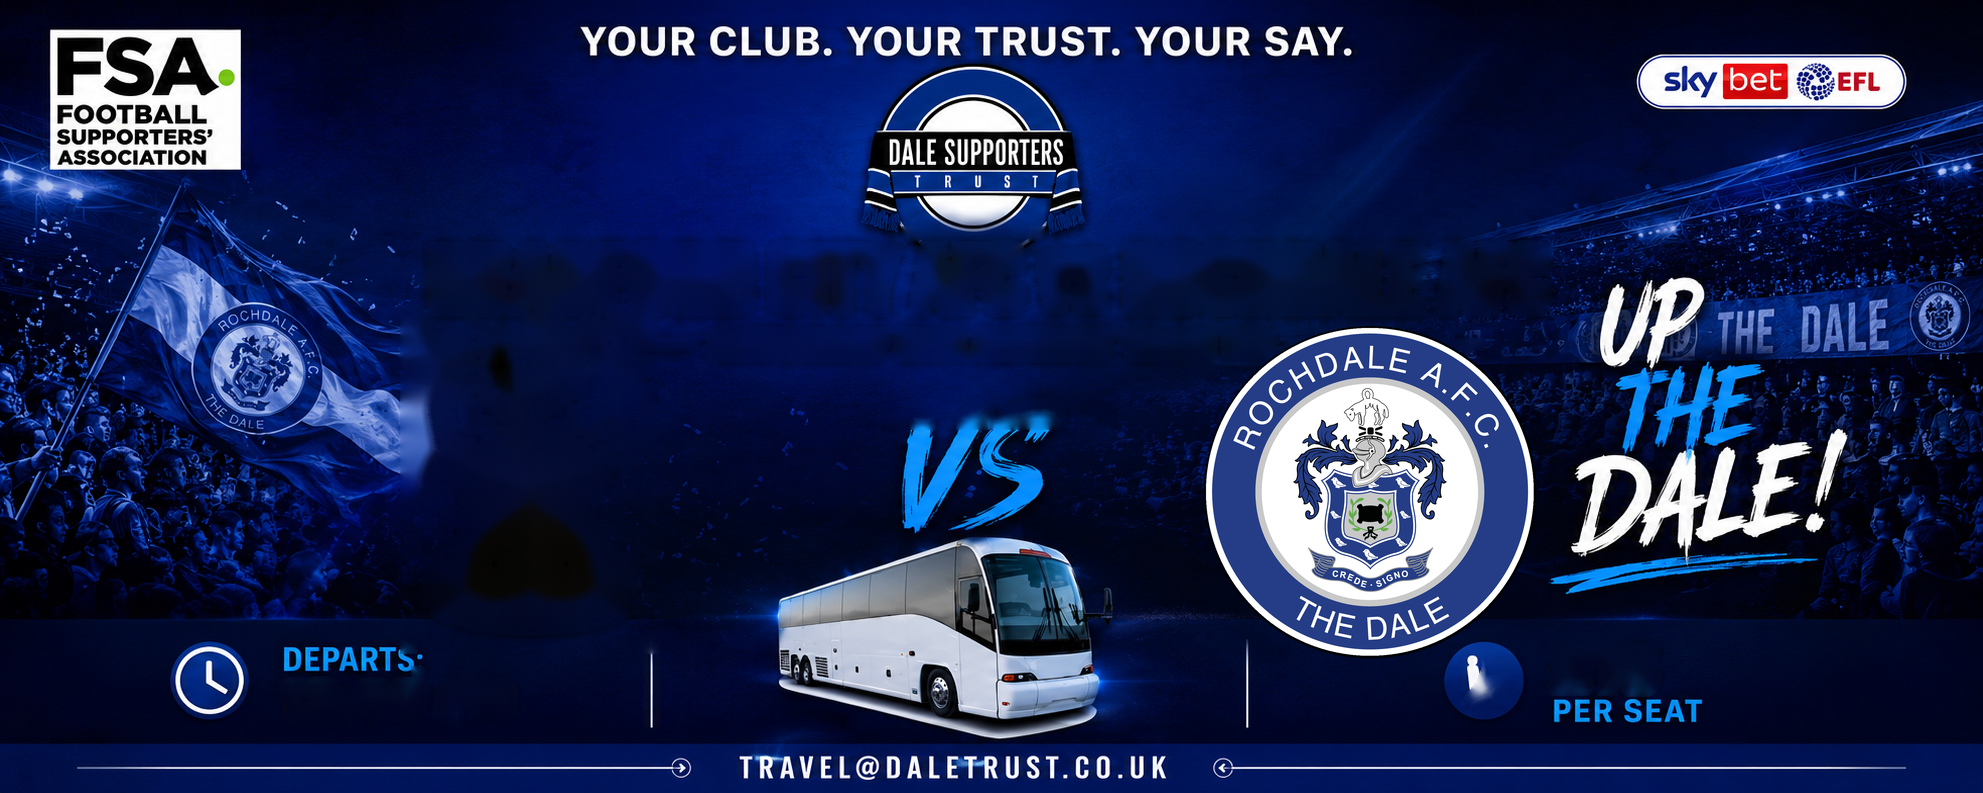
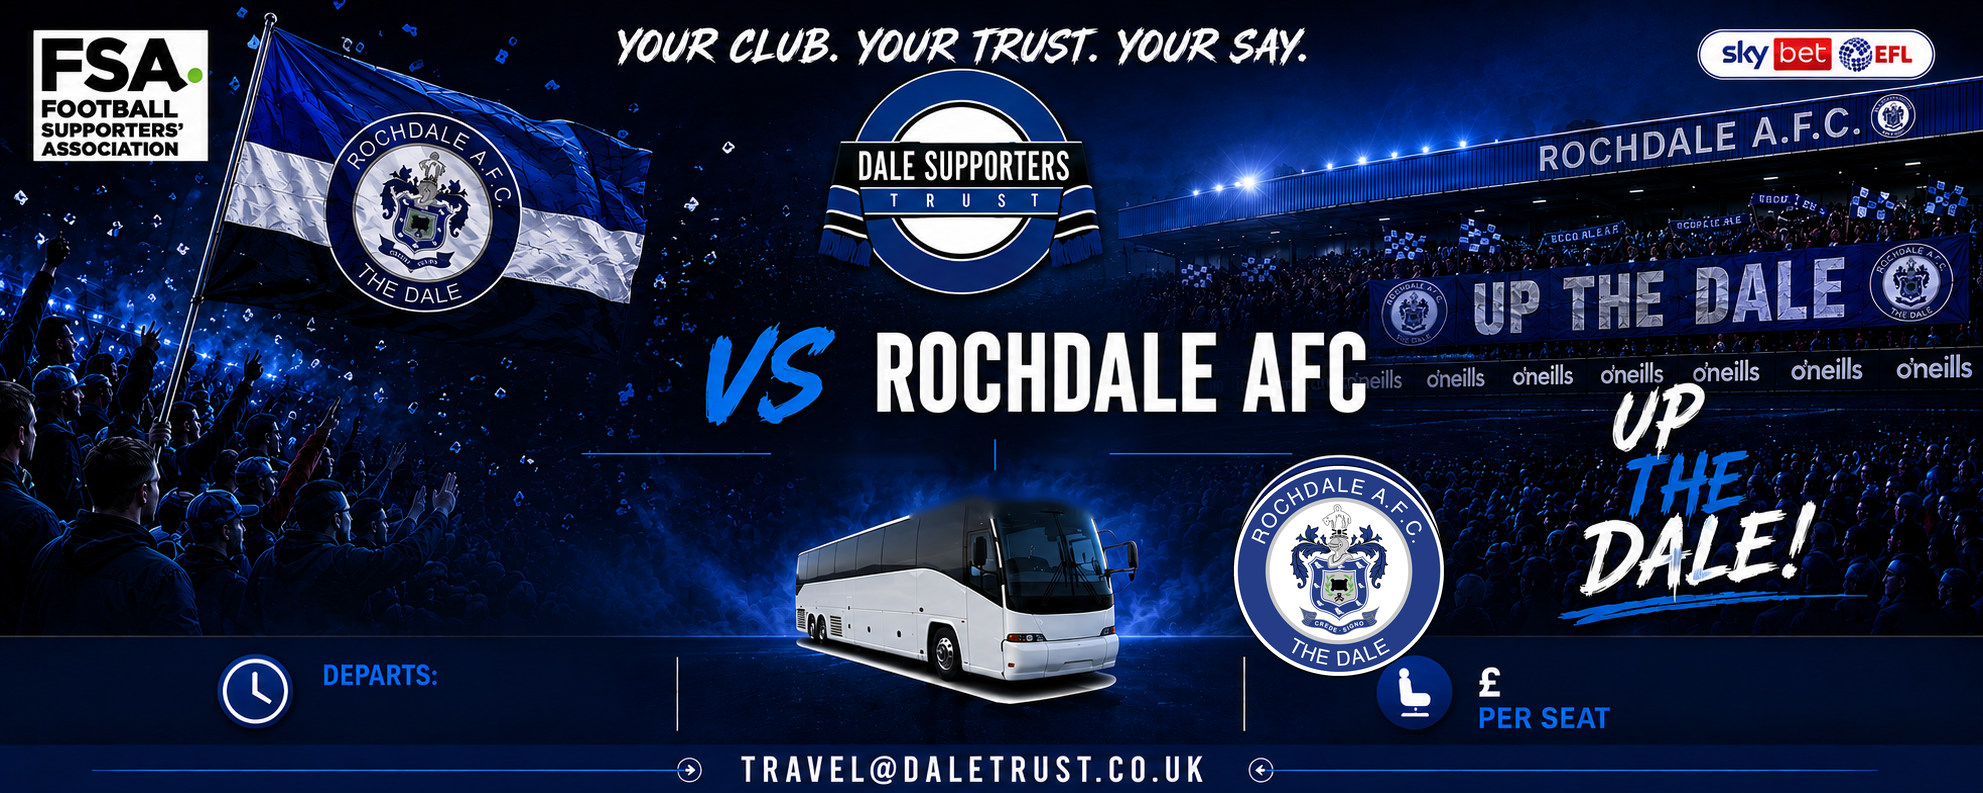
Add files via upload

diff --git a/coach-poster.html b/coach-poster.html
@@ -41,8 +41,8 @@
     <input type="text" id="ko" value="15:00">
     <label>Coach departs</label>
     <input type="text" id="dep" value="12:00 PM">
-    <label>Price per seat</label>
-    <input type="text" id="price" value="&pound;15">
+    <label>Price per seat <small style="text-transform:none">(number only &mdash; the &pound; is on the poster)</small></label>
+    <input type="text" id="price" value="15">
     <button class="go" onclick="download()">&#11015; Download poster</button>
     <p class="hint" style="margin-top:10px">Posts perfectly to Facebook &amp; X. For Instagram, crop square in the app or ask Chris for a square template.</p>
   </div>
@@ -96,40 +96,38 @@ function render(){
   if(!tmpl.complete)return;
   x.clearRect(0,0,1983,793);
   x.drawImage(tmpl,0,0);
-  // headline: {OPP} VS ROCHDALE AFC centred at 991, baseline 306
-  const opp=$('opp').value.toUpperCase()||'OPPOSITION';
-  const parts=[[opp+' ',WHITE],['VS',BLUE],[' ROCHDALE AFC',WHITE]];
-  const full=parts.map(p=>p[0]).join('');
-  const size=fitFont(full,'700',66,1100);
-  x.font=`700 ${size}px Oswald`;
-  let w=x.measureText(full).width, cx=991-w/2;
   x.textBaseline='alphabetic';
-  parts.forEach(([t,c])=>{x.fillStyle=c;x.fillText(t,cx,306);cx+=x.measureText(t).width;});
-  // date line centred at 991, baseline 388, with dashes
-  const dt=($('date').value.toUpperCase()||'')+'  '+($('ko').value||'')+' KO';
-  const ds=fitFont(dt,'600',38,760);
-  x.font=`600 ${ds}px Oswald`;
-  const dw=x.measureText(dt).width;
-  x.fillStyle=WHITE;x.fillText(dt,991-dw/2,392);
-  x.strokeStyle=ICE;x.lineWidth=4;x.lineCap='round';
-  const gap=28;
-  x.beginPath();x.moveTo(486,378);x.lineTo(991-dw/2-gap,378);x.stroke();
-  x.beginPath();x.moveTo(991+dw/2+gap,378);x.lineTo(1496,378);x.stroke();
-  // opposition badge: contain in (429..631, 332..628)
+  // opponent name: right-aligned against the static "VS ROCHDALE AFC"
+  const opp=$('opp').value.toUpperCase()||'OPPOSITION';
+  let size=104;
+  do{x.font=`700 ${size}px Oswald`;if(x.measureText(opp).width<=505)break;size-=3;}while(size>28);
+  x.fillStyle='#FFFFFF';
+  x.fillText(opp, 575-x.measureText(opp).width, 411);
+  // date line composed between the static dashes, centred at 948
+  const dateT=($('date').value.toUpperCase()||'').trim();
+  const koT=(($('ko').value||'').trim())+' KO';
+  const sep='  |  ';
+  let ds=44, full=dateT+sep+koT;
+  do{x.font=`600 ${ds}px Oswald`;if(x.measureText(full).width<=560)break;ds-=2;}while(ds>20);
+  let cx=948-x.measureText(full).width/2;
+  x.fillStyle='#FFFFFF';x.fillText(dateT,cx,500);cx+=x.measureText(dateT).width;
+  x.fillStyle='#35A7FF';x.fillText(sep,cx,500);cx+=x.measureText(sep).width;
+  x.fillStyle='#FFFFFF';x.fillText(koT,cx,500);
+  // opponent badge in the clear zone left of the bus
   if(badgeImg.complete&&badgeImg.naturalWidth){
-    const bw=202,bh=296,bx=428,by=332;
+    const bx=462,by=498,bw=244,bh=198;
     const s=Math.min(bw/badgeImg.naturalWidth,bh/badgeImg.naturalHeight);
     const w2=badgeImg.naturalWidth*s,h2=badgeImg.naturalHeight*s;
     x.drawImage(badgeImg,bx+(bw-w2)/2,by+(bh-h2)/2,w2,h2);
   }
-  // departs time
+  // departs time, right of the static label
   const dep=$('dep').value.toUpperCase()||'';
-  x.font=`700 ${fitFont(dep,'700',50,235)}px Oswald`;
-  x.fillStyle=WHITE;x.fillText(dep,278,712);
-  // price
-  const pr=$('price').value||'';
-  x.font=`700 ${fitFont(pr,'700',84,185)}px Oswald`;
-  x.fillStyle=WHITE;x.fillText(pr,1482,700);
+  let ts=42;do{x.font=`700 ${ts}px Oswald`;if(x.measureText(dep).width<=210)break;ts-=2;}while(ts>20);
+  x.fillStyle='#FFFFFF';x.fillText(dep,458,708);
+  // price digits, right of the static £
+  const pr=($('price').value||'').replace(/[^0-9.]/g,'');
+  let ps=40;do{x.font=`700 ${ps}px Oswald`;if(x.measureText(pr).width<=150)break;ps-=2;}while(ps>18);
+  x.fillStyle='#FFFFFF';x.fillText(pr,1504,694);
 }
 
 function download(){
